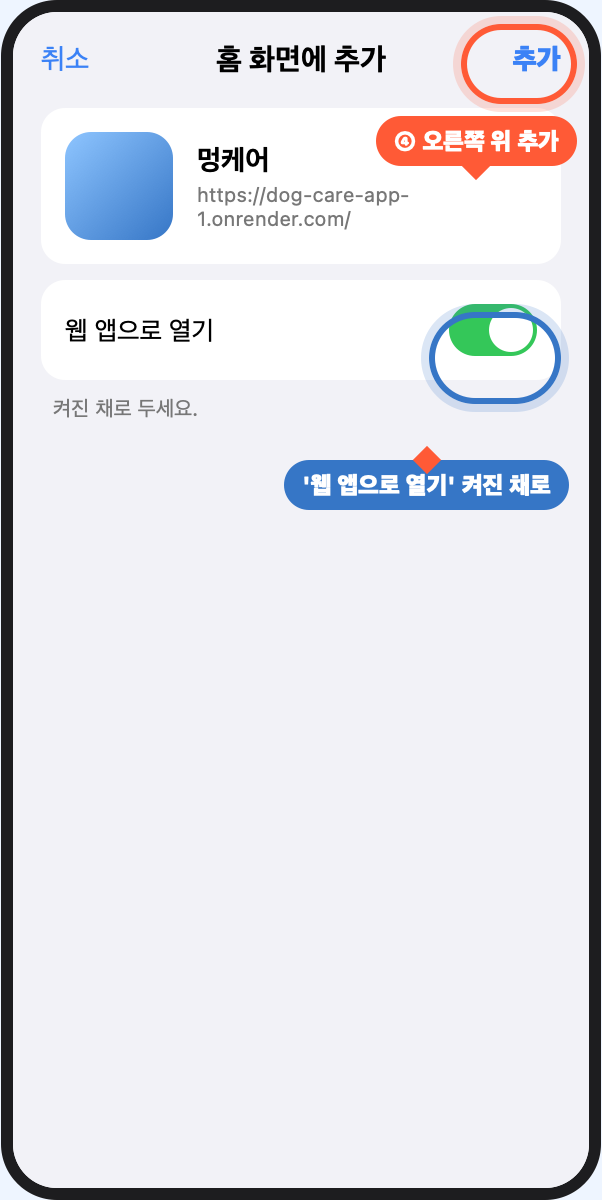
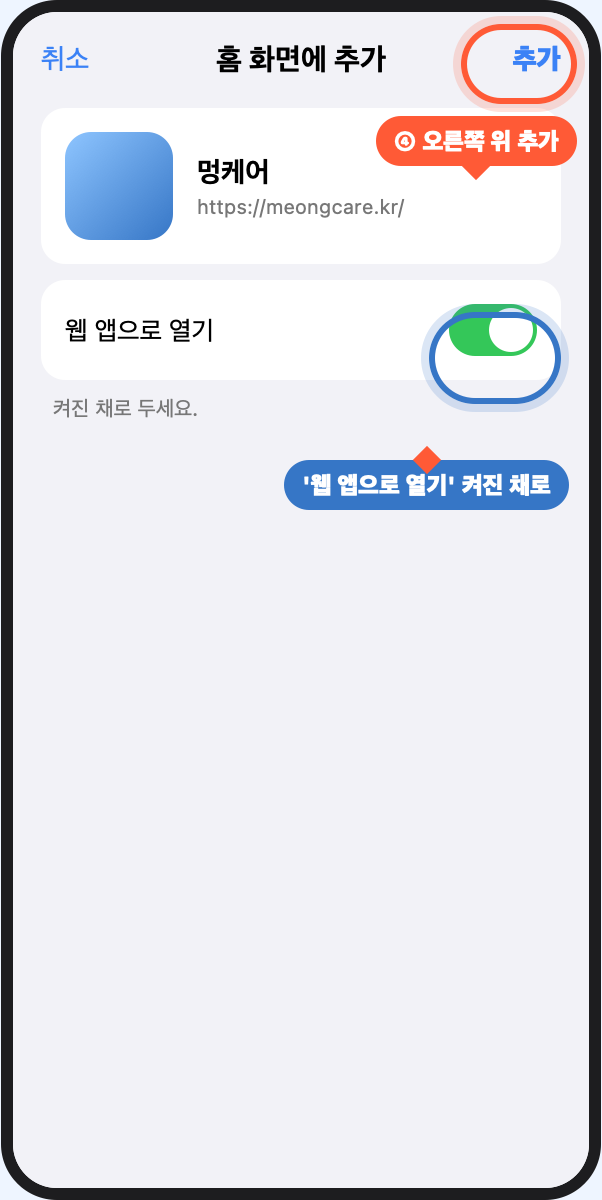
설치 그림 주소창 meongcare.kr로, 설치 페이지 이미지 v2 (11/11)

Changed region(s): [[0.3289, 0.1233, 0.6877, 0.185]]

diff --git a/public/intro/install/index.html b/public/intro/install/index.html
@@ -54,18 +54,18 @@
 
     <section id="panel-ios" class="panel" role="tabpanel" aria-labelledby="tab-ios">
       <p class="lead" style="font-size:14px">꼭 <b>사파리</b>로 열어 주세요. 카카오톡 안에서 열렸다면 오른쪽 아래 ··· → <b>다른 브라우저로 열기</b>.</p>
-      <article class="step"><h2><span class="n">1</span>주소창 오른쪽 ••• 누르기</h2><p>화면 아래 주소창 끝에 점 세 개가 있어요. (옛 아이폰은 아래 가운데 공유 버튼 <span aria-hidden="true">⤴</span>을 바로 누르면 2번을 건너뛰어요)</p><img src="/intro/img/install-ios-1.png?v=1" alt="사파리 주소창 오른쪽 점 세 개 버튼 위치" width="300" height="600" loading="lazy" /></article>
-      <article class="step"><h2><span class="n">2</span>공유 누르기</h2><p>메뉴에서 <b>공유</b>를 눌러요.</p><img src="/intro/img/install-ios-2.png?v=1" alt="메뉴에서 공유 항목" width="300" height="600" loading="lazy" /></article>
-      <article class="step"><h2><span class="n">3</span>아래로 내려 홈 화면에 추가</h2><p>공유 창의 목록을 아래로 내리면 <b>홈 화면에 추가</b>가 있어요.</p><img src="/intro/img/install-ios-3.png?v=1" alt="공유 창에서 홈 화면에 추가 항목" width="300" height="600" loading="lazy" /></article>
-      <article class="step"><h2><span class="n">4</span>'웹 앱으로 열기'는 켜진 채로, 오른쪽 위 추가</h2><p>이름은 '멍케어' 그대로 두고 <b>추가</b>를 눌러요.</p><img src="/intro/img/install-ios-4.png?v=1" alt="홈 화면에 추가 창에서 웹 앱으로 열기 켜짐과 추가 버튼" width="300" height="600" loading="lazy" /><p class="note">'웹 앱으로 열기'가 꺼져 있으면 켜 주세요. 꺼진 채로 추가하면 알림이 오지 않아요.</p></article>
-      <article class="step"><h2><span class="n">5</span>홈 화면의 멍케어 아이콘으로 열기</h2><p>이제부터는 사파리가 아니라 <b>이 아이콘</b>으로만 열어 주세요. 처음 열면 우리 아이 이름부터 물어봐요.</p><img src="/intro/img/install-ios-5.png?v=1" alt="홈 화면에 생긴 멍케어 아이콘" width="300" height="600" loading="lazy" /></article>
+      <article class="step"><h2><span class="n">1</span>주소창 오른쪽 ••• 누르기</h2><p>화면 아래 주소창 끝에 점 세 개가 있어요. (옛 아이폰은 아래 가운데 공유 버튼 <span aria-hidden="true">⤴</span>을 바로 누르면 2번을 건너뛰어요)</p><img src="/intro/img/install-ios-1.png?v=2" alt="사파리 주소창 오른쪽 점 세 개 버튼 위치" width="300" height="600" loading="lazy" /></article>
+      <article class="step"><h2><span class="n">2</span>공유 누르기</h2><p>메뉴에서 <b>공유</b>를 눌러요.</p><img src="/intro/img/install-ios-2.png?v=2" alt="메뉴에서 공유 항목" width="300" height="600" loading="lazy" /></article>
+      <article class="step"><h2><span class="n">3</span>아래로 내려 홈 화면에 추가</h2><p>공유 창의 목록을 아래로 내리면 <b>홈 화면에 추가</b>가 있어요.</p><img src="/intro/img/install-ios-3.png?v=2" alt="공유 창에서 홈 화면에 추가 항목" width="300" height="600" loading="lazy" /></article>
+      <article class="step"><h2><span class="n">4</span>'웹 앱으로 열기'는 켜진 채로, 오른쪽 위 추가</h2><p>이름은 '멍케어' 그대로 두고 <b>추가</b>를 눌러요.</p><img src="/intro/img/install-ios-4.png?v=2" alt="홈 화면에 추가 창에서 웹 앱으로 열기 켜짐과 추가 버튼" width="300" height="600" loading="lazy" /><p class="note">'웹 앱으로 열기'가 꺼져 있으면 켜 주세요. 꺼진 채로 추가하면 알림이 오지 않아요.</p></article>
+      <article class="step"><h2><span class="n">5</span>홈 화면의 멍케어 아이콘으로 열기</h2><p>이제부터는 사파리가 아니라 <b>이 아이콘</b>으로만 열어 주세요. 처음 열면 우리 아이 이름부터 물어봐요.</p><img src="/intro/img/install-ios-5.png?v=2" alt="홈 화면에 생긴 멍케어 아이콘" width="300" height="600" loading="lazy" /></article>
     </section>
 
     <section id="panel-and" class="panel" role="tabpanel" aria-labelledby="tab-and" hidden>
       <p class="lead" style="font-size:14px"><b>크롬</b>으로 열어 주세요. 화면 아래에 <b>[설치]</b> 띠가 보이면 그걸 바로 눌러도 돼요.</p>
-      <article class="step"><h2><span class="n">1</span>오른쪽 위 ⋮ 누르기</h2><img src="/intro/img/install-and-1.png?v=1" alt="크롬 오른쪽 위 점 세 개 메뉴" width="300" height="600" loading="lazy" /></article>
-      <article class="step"><h2><span class="n">2</span>홈 화면에 추가 (또는 앱 설치)</h2><p>기기에 따라 이름이 '앱 설치'·'홈 화면에 추가'·'설치 및 바로가기 만들기'로 달라요. 셋 다 같은 거예요.</p><img src="/intro/img/install-and-2.png?v=1" alt="크롬 메뉴의 홈 화면에 추가 항목" width="300" height="600" loading="lazy" /></article>
-      <article class="step"><h2><span class="n">3</span>설치 누르기</h2><p>홈 화면에 멍케어 아이콘이 생겨요. 이제 그 아이콘으로 열어 주세요.</p><img src="/intro/img/install-and-3.png?v=1" alt="앱 설치 확인 창의 설치 버튼" width="300" height="600" loading="lazy" /><p class="note">삼성 인터넷을 쓰면: 아래 메뉴(≡) → 현재 페이지 추가 → 홈 화면 → 추가.</p></article>
+      <article class="step"><h2><span class="n">1</span>오른쪽 위 ⋮ 누르기</h2><img src="/intro/img/install-and-1.png?v=2" alt="크롬 오른쪽 위 점 세 개 메뉴" width="300" height="600" loading="lazy" /></article>
+      <article class="step"><h2><span class="n">2</span>홈 화면에 추가 (또는 앱 설치)</h2><p>기기에 따라 이름이 '앱 설치'·'홈 화면에 추가'·'설치 및 바로가기 만들기'로 달라요. 셋 다 같은 거예요.</p><img src="/intro/img/install-and-2.png?v=2" alt="크롬 메뉴의 홈 화면에 추가 항목" width="300" height="600" loading="lazy" /></article>
+      <article class="step"><h2><span class="n">3</span>설치 누르기</h2><p>홈 화면에 멍케어 아이콘이 생겨요. 이제 그 아이콘으로 열어 주세요.</p><img src="/intro/img/install-and-3.png?v=2" alt="앱 설치 확인 창의 설치 버튼" width="300" height="600" loading="lazy" /><p class="note">삼성 인터넷을 쓰면: 아래 메뉴(≡) → 현재 페이지 추가 → 홈 화면 → 추가.</p></article>
     </section>
 
     <a class="cta app" href="/?app&from=install">멍케어 열기 →</a>
